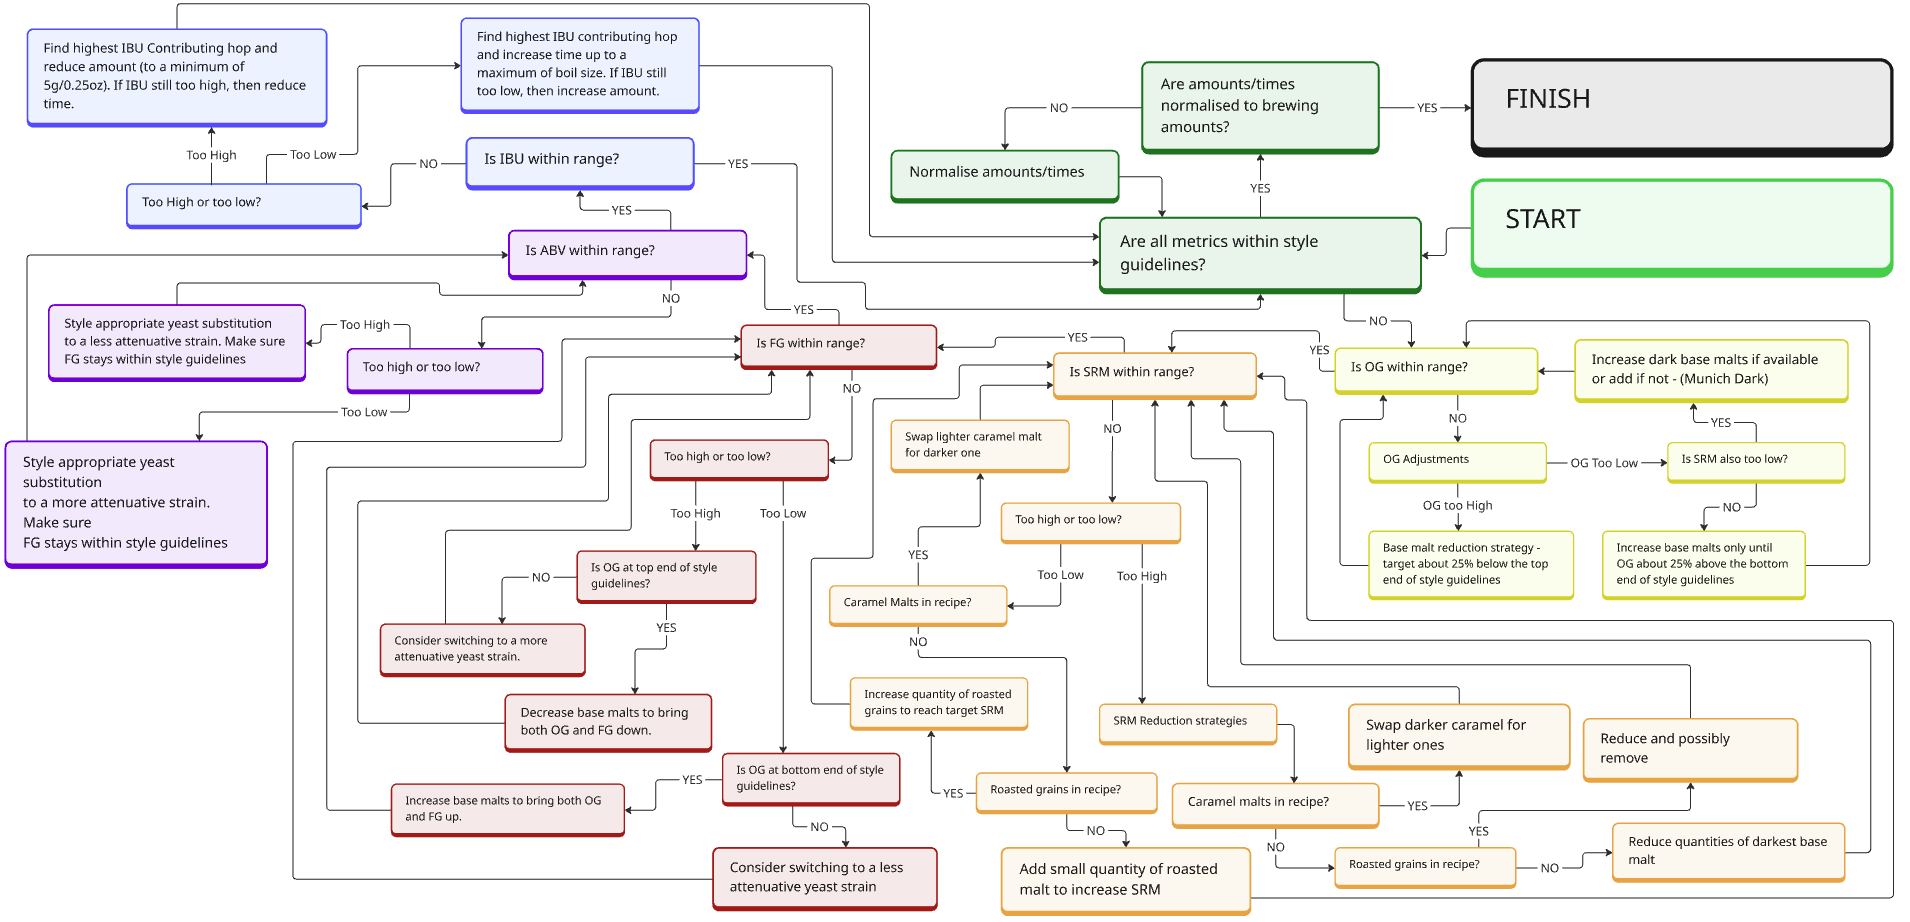
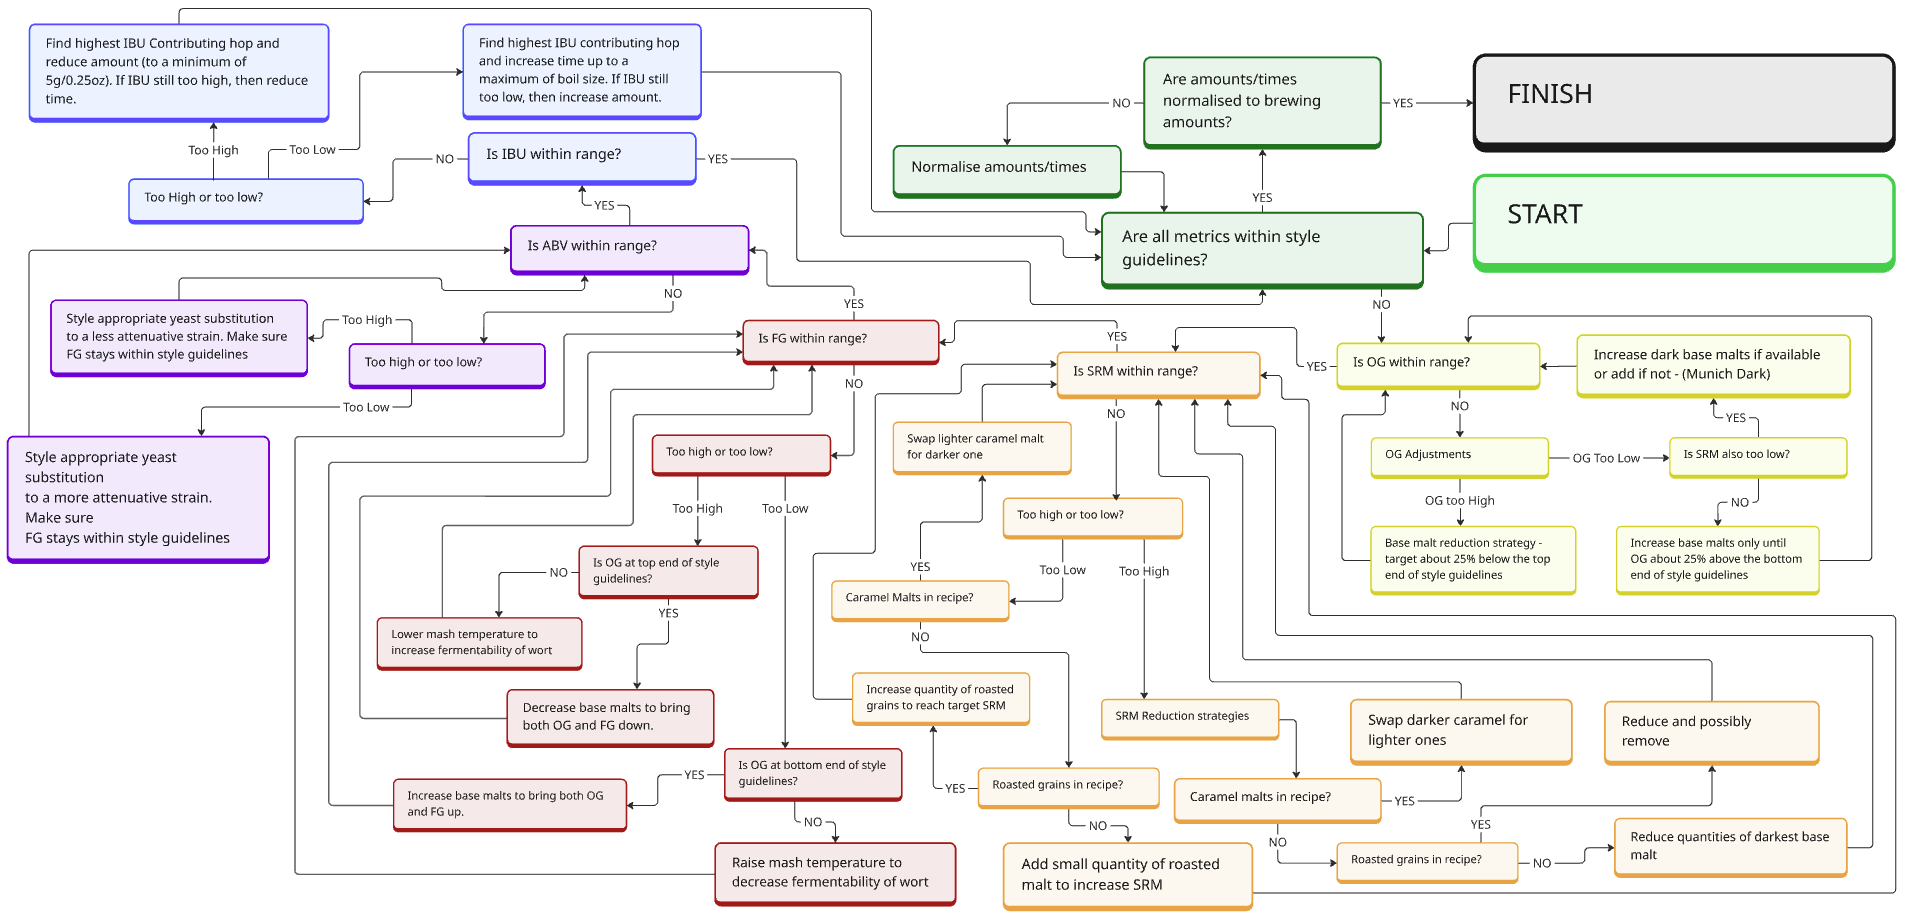
update backend optimization strategies to use mash temperature adjustments to correct FG

Changed region(s): [[0.0, 0.0, 1.0, 1.0]]

diff --git a/backend/services/ai/optimization_strategies.py b/backend/services/ai/optimization_strategies.py
@@ -987,6 +987,81 @@ class NormalizeAmountsStrategy(OptimizationStrategy):
             return round(amount, 2)
 
 
+class MashTemperatureAdjustmentStrategy(OptimizationStrategy):
+    """
+    Research-backed strategy for adjusting mash temperature to achieve target FG through fermentability control.
+
+    Based on scientific literature:
+    - "Understanding Enzymes - Homebrew Science" (Brew Your Own Magazine)
+    - John Palmer's "How to Brew"
+    - JASBC papers on enzyme thermostability
+    - "1% less attenuation for every degree above 151°F" (brewing literature)
+    """
+
+    def execute(self, parameters: Dict[str, Any] = None) -> List[Dict[str, Any]]:
+        """Adjust mash temperature to influence wort fermentability and FG."""
+        parameters = parameters or {}
+        direction = parameters.get(
+            "direction", "decrease"
+        )  # "increase" or "decrease" FG
+        target_fermentability = parameters.get(
+            "target_fermentability", "higher"
+        )  # "higher" or "lower"
+
+        changes = []
+
+        # Get current mash temperature from recipe
+        current_temp = self.recipe.get("mash_temperature", 152.0)
+        temp_unit = self.recipe.get("mash_temp_unit", "F")
+
+        # Convert to Fahrenheit for consistent calculations
+        if temp_unit == "C":
+            current_temp_f = (current_temp * 9 / 5) + 32
+        else:
+            current_temp_f = current_temp
+
+        # Determine new temperature based on direction
+        if direction == "decrease" or target_fermentability == "higher":
+            # Lower FG by reducing mash temperature (more fermentable)
+            # Conservative 2-4°F reduction, staying within reasonable brewing bounds
+            new_temp_f = max(148, current_temp_f - 3)
+            change_desc = f"Lower mash temperature for higher fermentability (more β-amylase activity)"
+            fermentability_effect = (
+                "Increases fermentable sugar production, leading to lower FG"
+            )
+        else:
+            # Raise FG by increasing mash temperature (less fermentable)
+            # Conservative 2-4°F increase, staying within reasonable brewing bounds
+            new_temp_f = min(158, current_temp_f + 3)
+            change_desc = f"Raise mash temperature for lower fermentability (more α-amylase activity)"
+            fermentability_effect = "Increases dextrin production, leading to higher FG"
+
+        # Convert back to original unit if needed
+        if temp_unit == "C":
+            new_temp = (new_temp_f - 32) * 5 / 9
+        else:
+            new_temp = new_temp_f
+
+        # Only suggest change if temperature is different
+        if abs(new_temp - current_temp) >= 1:
+            changes.append(
+                {
+                    "type": "modify_recipe_parameter",
+                    "parameter": "mash_temperature",
+                    "old_value": current_temp,
+                    "new_value": round(new_temp),
+                    "unit": temp_unit,
+                    "reason": change_desc,
+                    "brewing_science": fermentability_effect,
+                    "impact_type": "important",
+                    "confidence": "high",  # Well-established brewing science
+                    "category": "process_adjustment",
+                }
+            )
+
+        return changes
+
+
 # Strategy registry for dynamic loading
 STRATEGY_REGISTRY = {
     # Base malt strategies
@@ -1006,6 +1081,8 @@ STRATEGY_REGISTRY = {
     "hop_ibu_adjustment": HopIBUAdjustmentStrategy,
     "yeast_substitution": YeastSubstitutionStrategy,
     "normalize_amounts": NormalizeAmountsStrategy,
+    # Mash temperature strategy
+    "mash_temperature_adjustment": MashTemperatureAdjustmentStrategy,
 }
 
 

diff --git a/backend/services/ai/recipe_context.py b/backend/services/ai/recipe_context.py
@@ -136,6 +136,10 @@ class RecipeContext:
                 "amounts_normalized": self._evaluate_amounts_normalized,
                 "caramel_malts_in_recipe": self._evaluate_caramel_malts_in_recipe,
                 "roasted_grains_in_recipe": self._evaluate_roasted_grains_in_recipe,
+                # Mash temperature conditions for workflow
+                "mash_temp_available_and_high": self._evaluate_mash_temp_available_and_high,
+                "mash_temp_available_and_low": self._evaluate_mash_temp_available_and_low,
+                "yeast_substitution_available": self._evaluate_yeast_substitution_available,
             }
         )
 
@@ -162,6 +166,7 @@ class RecipeContext:
                 "increase_roasted_grains": self._execute_strategy_dynamic,
                 "reduce_roasted_grains": self._execute_strategy_dynamic,
                 "reduce_darkest_base_malt": self._execute_strategy_dynamic,
+                "mash_temperature_adjustment": self._execute_strategy_dynamic,
             }
         )
 
@@ -384,6 +389,47 @@ class RecipeContext:
             for ingredient in ingredients
             if ingredient.get("type") == "grain"
         )
+
+    def _evaluate_mash_temp_available_and_high(
+        self, config: Dict[str, Any] = None
+    ) -> bool:
+        """Check if mash temperature is available and can be lowered (currently high)."""
+        mash_temp = self.recipe.get("mash_temperature")
+        if not mash_temp:
+            return False
+
+        # Convert to Fahrenheit for consistent evaluation
+        mash_temp_f = float(mash_temp)
+        mash_temp_unit = self.recipe.get("mash_temp_unit", "F")
+        if mash_temp_unit == "C":
+            mash_temp_f = (mash_temp_f * 9 / 5) + 32
+
+        # Consider "high" if above 152°F (can be lowered for higher fermentability)
+        return mash_temp_f > 152.0
+
+    def _evaluate_mash_temp_available_and_low(
+        self, config: Dict[str, Any] = None
+    ) -> bool:
+        """Check if mash temperature is available and can be raised (currently low)."""
+        mash_temp = self.recipe.get("mash_temperature")
+        if not mash_temp:
+            return False
+
+        # Convert to Fahrenheit for consistent evaluation
+        mash_temp_f = float(mash_temp)
+        mash_temp_unit = self.recipe.get("mash_temp_unit", "F")
+        if mash_temp_unit == "C":
+            mash_temp_f = (mash_temp_f * 9 / 5) + 32
+
+        # Consider "low" if below 152°F (can be raised for lower fermentability)
+        return mash_temp_f < 152.0
+
+    def _evaluate_yeast_substitution_available(
+        self, config: Dict[str, Any] = None
+    ) -> bool:
+        """Check if yeast substitution is available (recipe contains yeast)."""
+        ingredients = self.recipe.get("ingredients", [])
+        return any(ingredient.get("type") == "yeast" for ingredient in ingredients)
 
     def _metric_in_range(self, metric_name: str, style_ranges: Dict[str, Any]) -> bool:
         """Check if a specific metric is within style range."""
